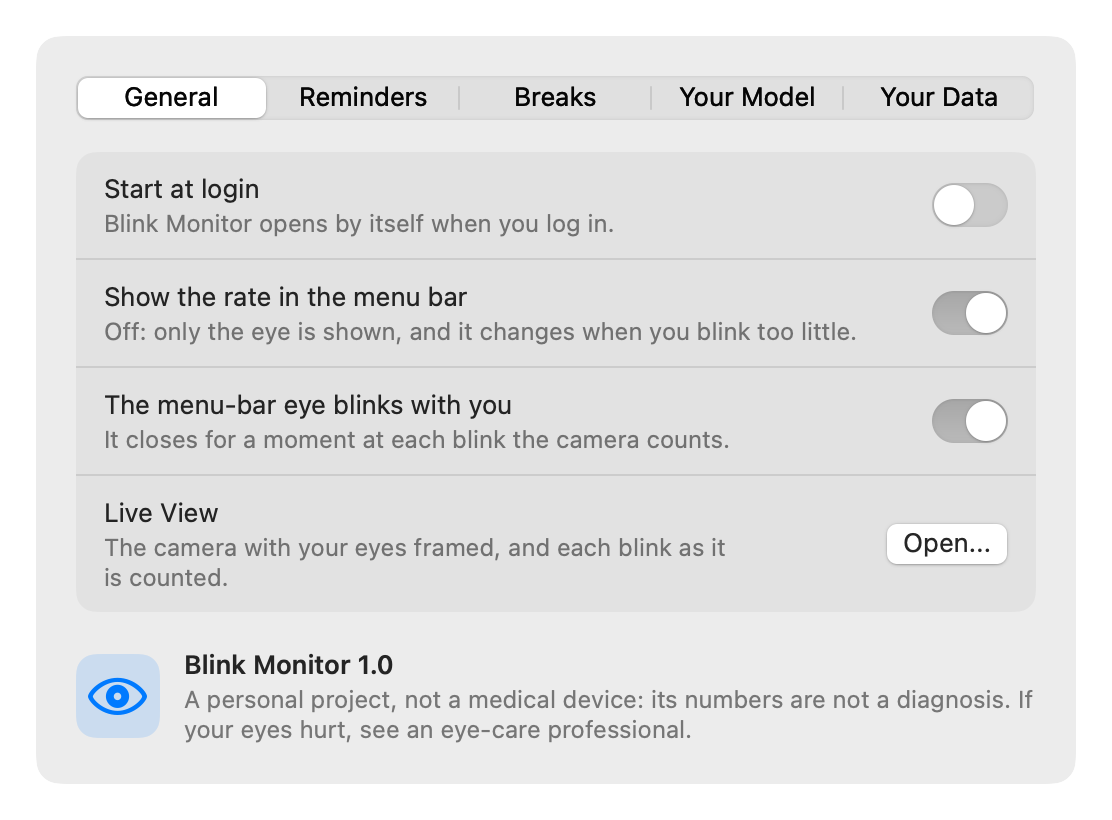
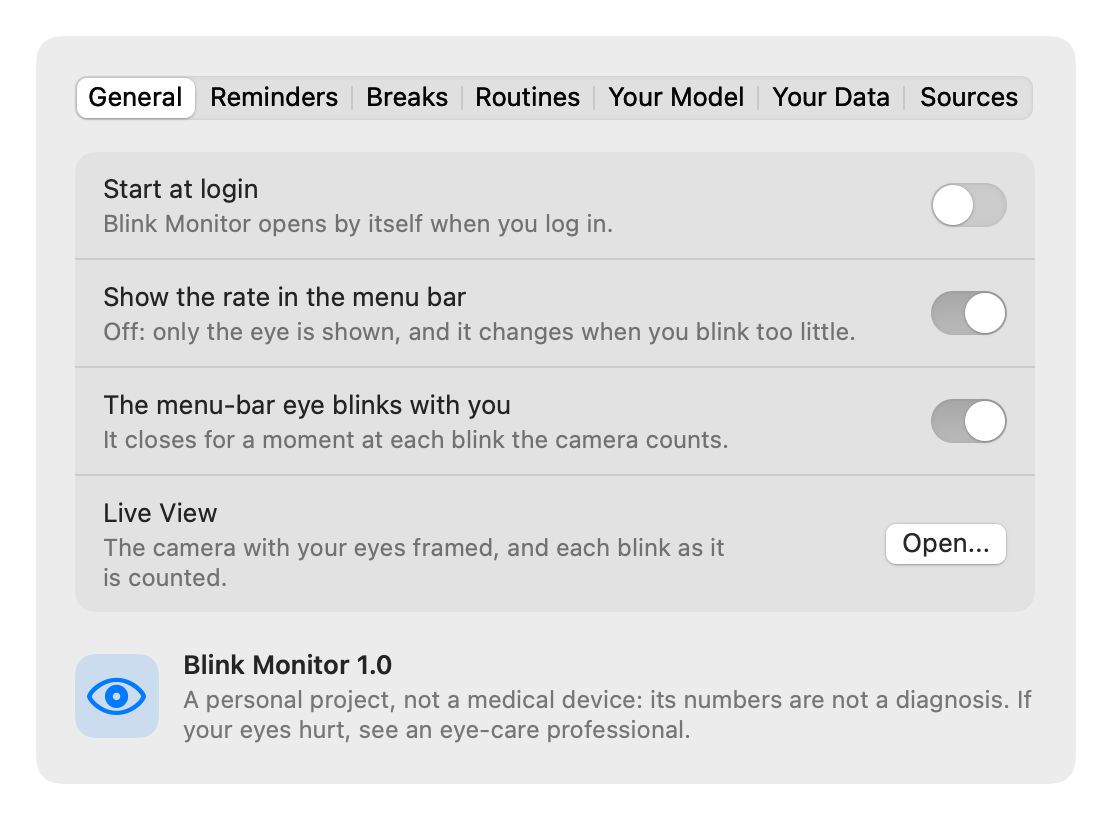
After the merges: the README's test counts, and the pictures drawn again
214 core tests, 89 app tests, 27 Python tests. Four Settings pictures are rendered
again by make snapshots, now that the window has seven tabs.

diff --git a/README.md b/README.md
@@ -466,9 +466,9 @@ Sources/BlinkUI          the SwiftUI views and the voice that are not tied to on
 Sources/BlinkMonitor     the menu-bar app: its setup, its windows, and its demo
 Sources/BlinkTrain       the tool that runs the app's trainer on the comparison's trainings
 Sources/BlinkReplay      the tool that replays recorded frames through the eye finding, and counts
-Tests/BlinkCoreTests     117 tests of the rules and of the trainer (Swift Testing)
-Tests/BlinkMonitorTests  22 tests of the app itself: its model, its setup, its choices, its words, its clock, its breaks, its routines, the demo, where it is installed
-training/                PyTorch training, Core ML conversion, labelling, evaluation and comparison tools, 26 tests
+Tests/BlinkCoreTests     214 tests of the rules and of the trainer (Swift Testing)
+Tests/BlinkMonitorTests  89 tests of the app itself: its model, its setup, its choices, its words, its clock, its breaks, its routines, the demo, where it is installed
+training/                PyTorch training, Core ML conversion, labelling, evaluation and comparison tools, 27 tests
 scripts/                 app bundling, the installer's disk image, prerequisite check, icon drawing, manifest repair
 docs/                    how it works, the research on blink rates, lessons, development notes
 ```
